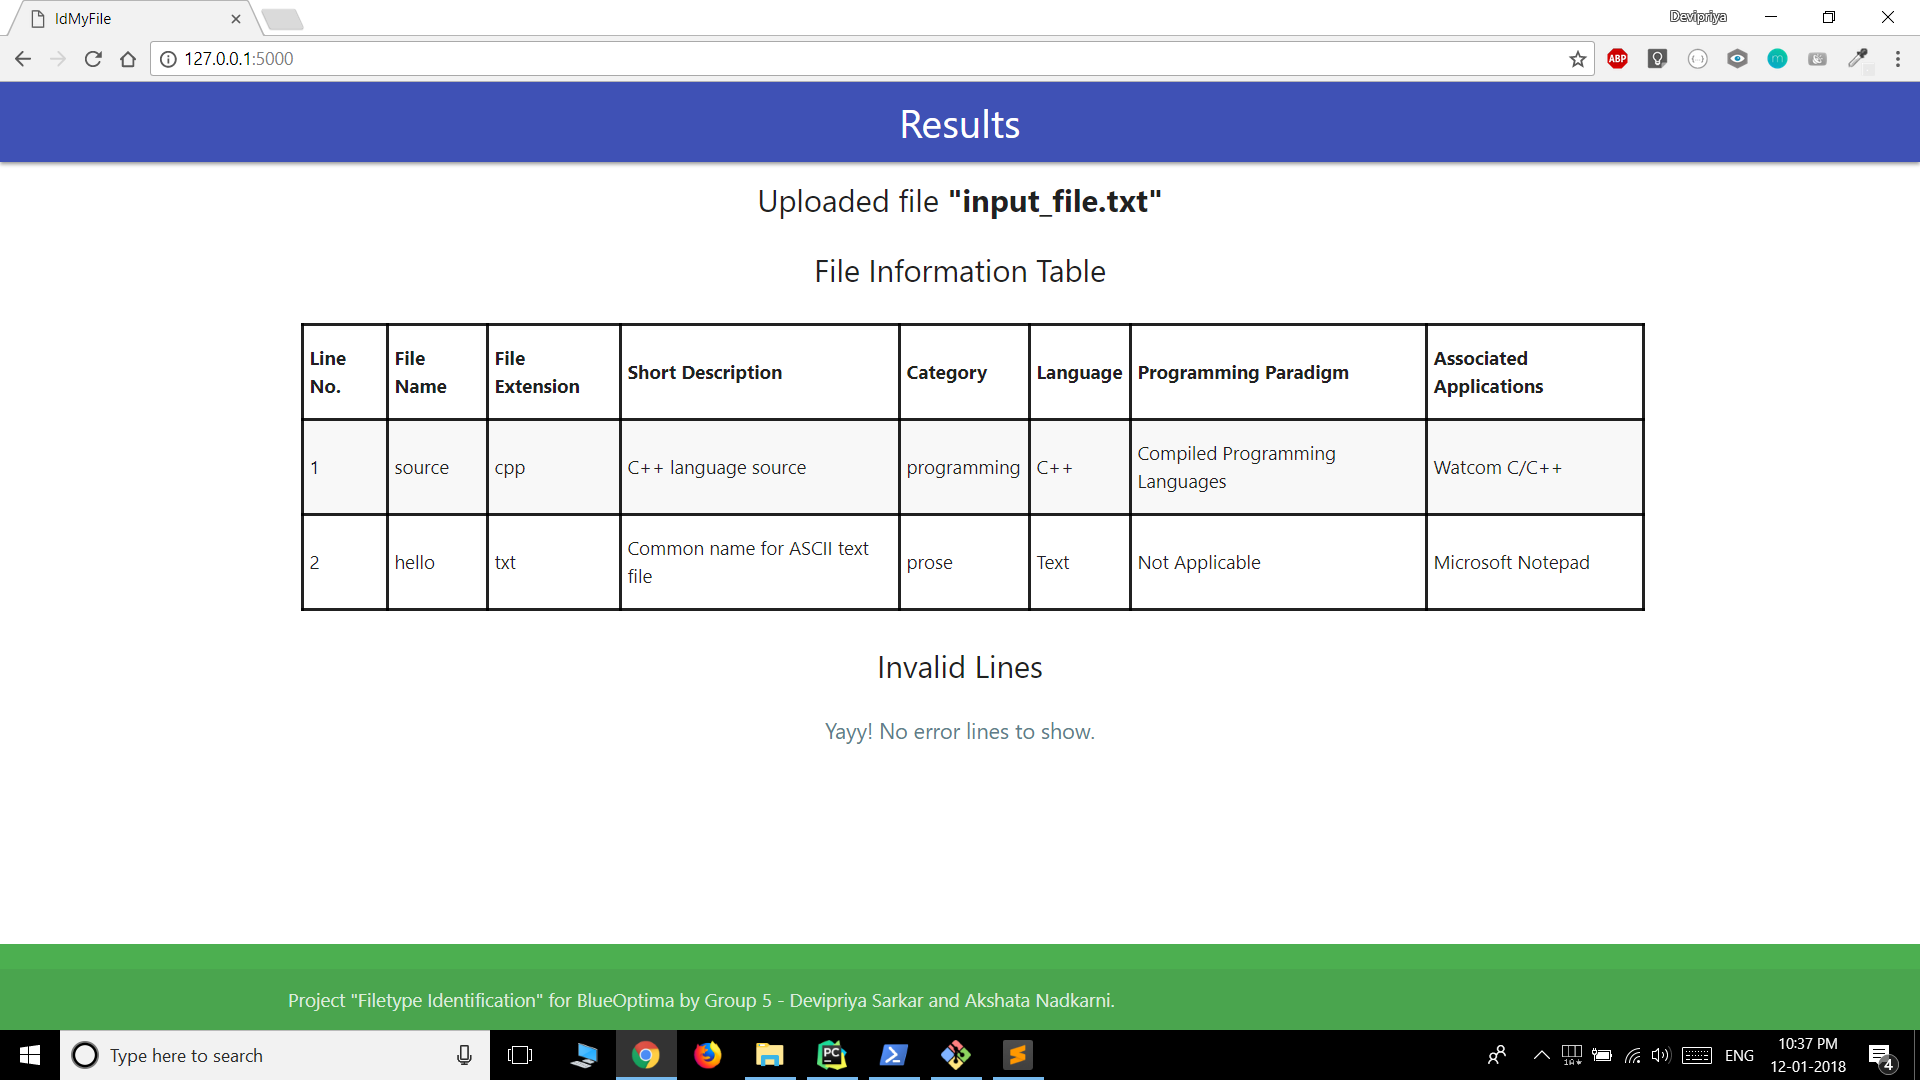
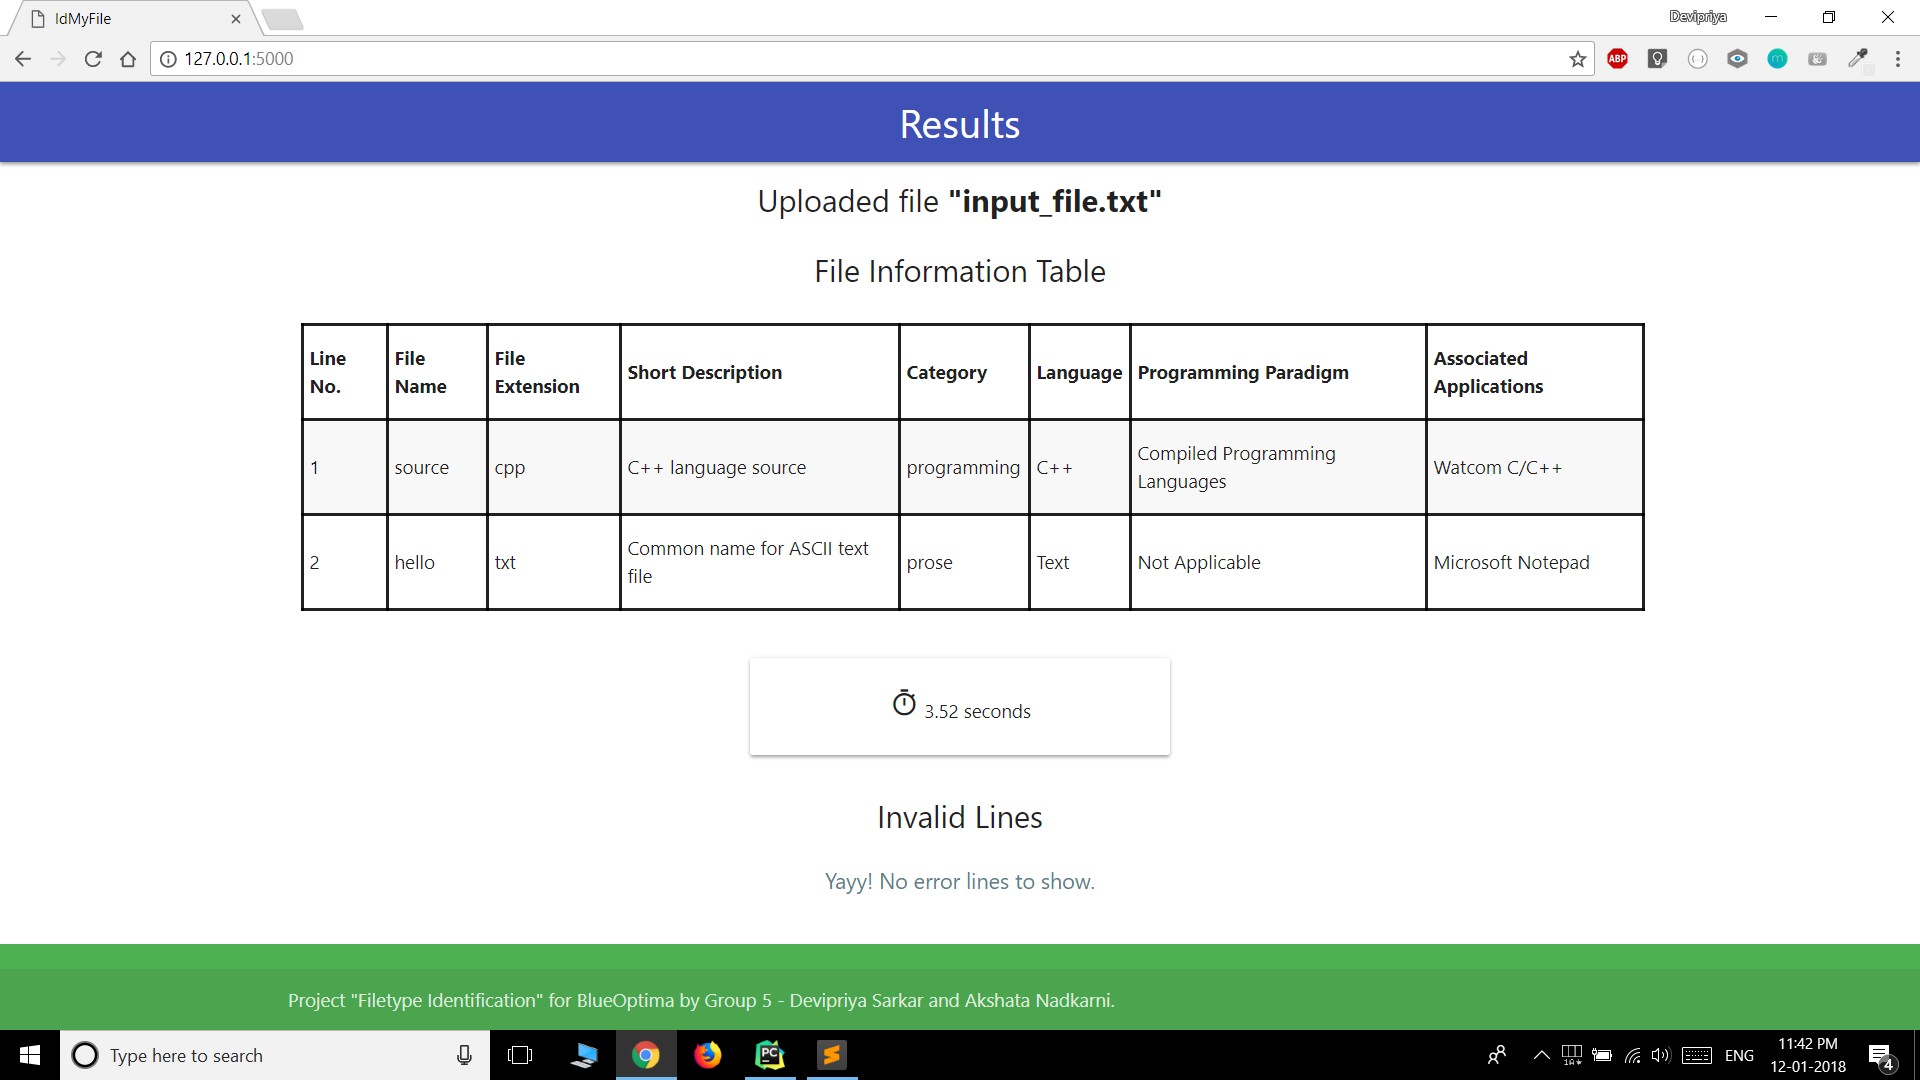
add time taken display

diff --git a/templates/result.html b/templates/result.html
@@ -66,6 +66,13 @@
                     </h6>
                 {% endif %}
             </div>
+            <div class="row center">
+                <div class="col s12 m4 offset-m4">
+                    <div class="card-panel">
+                        <i class="material-icons">timer</i> {{ time_taken }} seconds
+                    </div>
+                </div>
+            </div>
         </div>
     </section>
 

diff --git a/static/js/init.js b/static/js/init.js
@@ -1,7 +1,5 @@
 (function($){
-  $(function(){
+    $(function(){
 
-    $('.sidenav').sidenav();
-
-  }); // end of document ready
+    }); // end of document ready
 })(jQuery); // end of jQuery name space

diff --git a/IdMyFile.py b/IdMyFile.py
@@ -1,6 +1,7 @@
 from flask import Flask, request, render_template, abort
 from FileProcessor import process_input_file
 import urllib2
+import time
 
 
 app = Flask(__name__)
@@ -52,8 +53,12 @@ def main():
 
         # file exists and allowed
         if input_file and allowed_file(file_name):
+            start = time.clock()
             file_name, error_list, res_data = process_input_file(input_file)
-            return render_template('result.html', file_name=file_name, error_list=error_list, res_data=res_data)
+            time_taken = time.clock() - start
+            time_taken = round(time_taken, 2)
+            return render_template('result.html', file_name=file_name,
+                                   error_list=error_list, res_data=res_data, time_taken=time_taken)
         else:
             abort(400, "Invalid file format. Please pass only plain text file input")
 

diff --git a/README.md b/README.md
@@ -39,7 +39,7 @@ Project "Filetype Identification" for BlueOptima by Group 5 - Devipriya Sarkar a
         > Note: By default, [flask](http://flask.pocoo.org/) runs on port 5000.
     6. Upload a "plain text file" containing the list of file names and extensions in the format ```<file_name>.<file_extension>``` .
        A sample test file ```sample_input_file.txt``` is there in the project directory for reference.
-    7. The result page shows a table with file information and the invalid lines in the input file are showed in the "Invalid Lines" section.
+    7. The result page shows a table with file information and the invalid lines in the input file are shown in the "Invalid Lines" section.
         > Quick Information: The regular expression used for matching the valid file name is ```^([\w_\.]+)(\.)([\w]*)$```.
         
 # Screenshots
